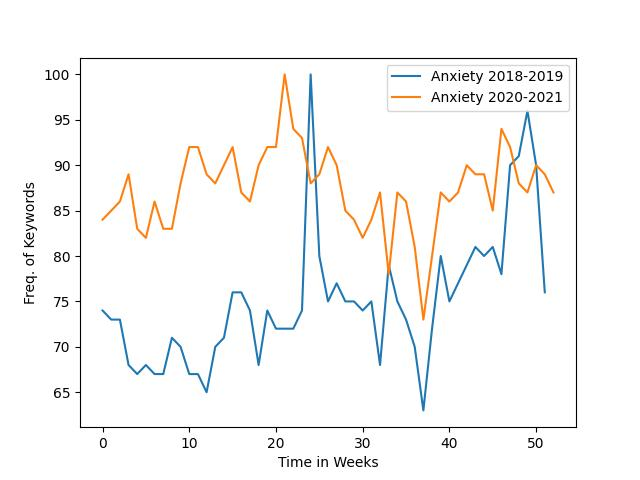
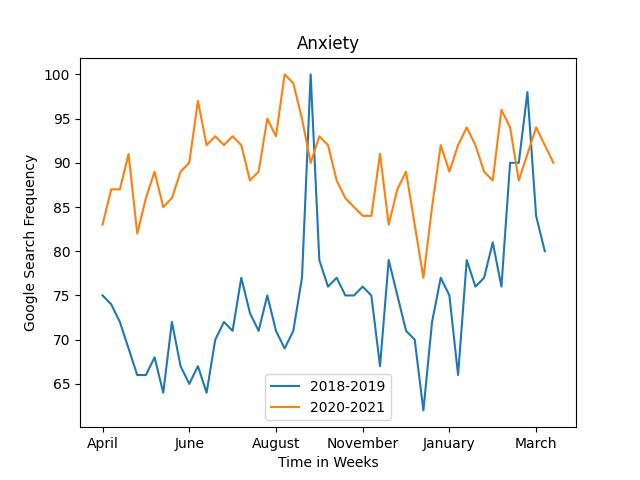
cleaned up graphs & files

diff --git a/oneCountryHypothesis/oneRegion.py b/oneCountryHypothesis/oneRegion.py
@@ -15,9 +15,9 @@ def getGoogleArray(keyword1, date1, date2):
     pytrend = TrendReq()
     pytrend.build_payload(kw_list=[keyword1], timeframe=[date1 + ' ' + date2])
     df2 = pytrend.interest_over_time()
[1 lines of base64/hex data omitted]
-                    + '_' + date1 + '_' + date2 + '_' + 'Data.csv')
-    df2.to_csv(filepath)
[1 lines of base64/hex data omitted]
+    #                 + '_' + date1 + '_' + date2 + '_' + 'Data.csv')
+    # df2.to_csv(filepath)
     return df2
 
 
@@ -32,26 +32,28 @@ def getDataFrame(keyword1, date1, date2):
     return time_keyword1
 
 
-time_keyword1 = getDataFrame('anorexia', '2018-04-04', '2019-04-06')
-time_keyword2 = getDataFrame('anorexia', '2020-04-05', '2021-04-06')
+time_keyword1 = getDataFrame('depression', '2018-04-04', '2019-04-06')
+time_keyword2 = getDataFrame('depression', '2020-04-05', '2021-04-06')
 
 time1 = time_keyword1.index.tolist()
 keyword1 = time_keyword1['Keyword'].tolist()
 time1_keyword1_2018_19 = pd.DataFrame(
     {'Time': time1,
-     'Anorexia 2018-2019': keyword1,
+     '2018-2019': keyword1,
      })
 
 time2 = time_keyword2.index.tolist()
 keyword2 = time_keyword2['Keyword'].tolist()
 time2_keyword2_2020_21 = pd.DataFrame(
     {'Time': time2,
-     'Anorexia 2020-2021': keyword2,
+     '2020-2021': keyword2,
      })
 
-ax = time1_keyword1_2018_19.plot(x='Time', y='Anorexia 2018-2019')
-time2_keyword2_2020_21.plot(ax=ax, x='Time', y='Anorexia 2020-2021')
+ax = time1_keyword1_2018_19.plot(x='Time', y='2018-2019')
+time2_keyword2_2020_21.plot(ax=ax, x='Time', y='2020-2021')
 
+plt.title("Depression")
 plt.xlabel('Time in Weeks')
-plt.ylabel('Freq. of Keywords')
+ax.set_xticklabels(['blank','April','June','August', 'November', 'January', 'March'])
+plt.ylabel('Google Search Frequency')
 plt.show()

diff --git a/oneCountryHypothesis/oneRegion_with_euclidean.py b/oneCountryHypothesis/oneRegion_with_euclidean.py
@@ -20,7 +20,6 @@ def getGoogleArray(keyword1, date1, date2):
     # df2.to_csv(filepath)
     return df2
 
-
 def getDataFrame(keyword1, date1, date2):
     df3 = getGoogleArray(keyword1, date1, date2)
     dftimes1 = df3.index.tolist()
@@ -32,8 +31,8 @@ def getDataFrame(keyword1, date1, date2):
     return time_keyword1
 
 
-time_keyword1 = getDataFrame('depression', '2018-04-08', '2019-04-06')
-time_keyword2 = getDataFrame('depression', '2020-04-05', '2021-04-03')
+time_keyword1 = getDataFrame('anxiety', '2018-04-08', '2019-04-06')
+time_keyword2 = getDataFrame('anxiety', '2020-04-05', '2021-04-03')
 
 time1 = time_keyword1.index.tolist()
 time1_series = time_keyword1.index
@@ -42,7 +41,7 @@ keyword1_series = time_keyword1['Keyword']
 
 time1_keyword1_2018_19 = pd.DataFrame(
     {'Time': time1,
-     'Depression 2018-2019': keyword1,
+     'Anxiety 2018-2019': keyword1,
      })
 
 time2 = time_keyword2.index.tolist()
@@ -51,11 +50,11 @@ keyword2_series = time_keyword2['Keyword']
 
 time2_keyword2_2020_21 = pd.DataFrame(
     {'Time': time2,
-     'Depression 2020-2021': keyword2,
+     'Anxiety 2020-2021': keyword2,
      })
 
-ax = time1_keyword1_2018_19.plot(x='Time', y='Depression 2018-2019')
-time2_keyword2_2020_21.plot(ax=ax, x='Time', y='Depression 2020-2021')
+ax = time1_keyword1_2018_19.plot(x='Time', y='Anxiety 2018-2019')
+time2_keyword2_2020_21.plot(ax=ax, x='Time', y='Anxiety 2020-2021')
 
 plt.xlabel('Time in Weeks')
 plt.ylabel('Freq. of Keywords')
@@ -69,7 +68,7 @@ plt.ylabel('Freq. of Keywords')
 my_df_dict2 = {'2018_19' : keyword1_series , '2020_21' : keyword2_series}
 
 my_df = pd.DataFrame(my_df_dict2)
-# print(my_df)
+print(my_df)
 
 euc_dist = euclidean_distances(my_df.T)
 print(euc_dist)

diff --git a/twoRegionHypothesis/twoRegions.py b/twoRegionHypothesis/twoRegions.py
@@ -6,9 +6,9 @@ def getGoogleArray(keyword1, date1, date2, GEOPARAM):
     pytrend = TrendReq()
     pytrend.build_payload(kw_list=[keyword1], timeframe=[date1 + ' ' + date2], geo=GEOPARAM)
     df2 = pytrend.interest_over_time()
[1 lines of base64/hex data omitted]
-    df2.to_csv(filepath)
-    exit(0)
[1 lines of base64/hex data omitted]
+    # df2.to_csv(filepath)
+    # exit(0)
     return df2
 
 def getDataFrame(keyword1, date1, date2, GEOPARAM):
@@ -22,7 +22,7 @@ def getDataFrame(keyword1, date1, date2, GEOPARAM):
     return time_keyword1
 
 time_keyword1 = getDataFrame('anorexia','2018-04-04','2019-04-06', 'US-TX')
-time_keyword2 = getDataFrame('anorexia','2020-04-05','2021-04-06', 'US-TX')
+time_keyword2 = getDataFrame('anorexia','2018-04-05','2019-04-06', 'US-OH')
 
 time1 = time_keyword1.index.tolist()
 keyword1 = time_keyword1['Keyword'].tolist()
@@ -35,11 +35,11 @@ time2 = time_keyword2.index.tolist()
 keyword2 = time_keyword2['Keyword'].tolist()
 time2_keyword2_2020_21 = pd.DataFrame(
     {'Time': time2,
-     'Anorexia 2020-2021 US-TX': keyword2,
+     'Anorexia 2018-2019 US-OH': keyword2,
     })
 
 ax = time1_keyword1_2018_19.plot(x='Time', y='Anorexia 2018-2019 US-TX')
-time2_keyword2_2020_21.plot(ax=ax, x='Time', y='Anorexia 2020-2021 US-TX')
+time2_keyword2_2020_21.plot(ax=ax, x='Time', y='Anorexia 2018-2019 US-OH')
 
 plt.xlabel('Time in Weeks')
 plt.ylabel('Freq. of Keywords')

diff --git a/covidCasesKeywords/covidandKeywords.py b/covidCasesKeywords/covidandKeywords.py
@@ -74,16 +74,16 @@ def getDataFrame(keyword1, date1, date2):
     dfkeyword1 = df3[keyword1].tolist()
     time_keyword1 = pd.DataFrame(
     {'Time': dftimes1,
-     'Depression': dfkeyword1,
+     'Sadness': dfkeyword1,
     })
     return time_keyword1
 
 
-all_keyworddata= getDataFrame('Depression','2020-04-05', '2021-04-06')
+all_keyworddata= getDataFrame('Sadness','2020-04-05', '2021-04-06')
 time_keyword1 = pd.DataFrame(all_keyworddata[all_keyworddata['Time'] <= '2020-12-27'])
 
 # print(time_keyword1)
-google_trends = time_keyword1['Depression'].to_list()
+google_trends = time_keyword1['Sadness'].to_list()
 # print(google_trends)
 
 # gets correlation between the casesbyweek (scaled) and other google trends
@@ -95,7 +95,7 @@ print(str(numpy.corrcoef(google_trends,usCovidData)))
 plt.scatter(usCovidData, google_trends , label='scatterplot')
 plt.legend(loc='best', fontsize=16)
 plt.xlabel('COVID-19')
-plt.ylabel('Depression')
+plt.ylabel('Sadness')
 plt.show()
 
 
